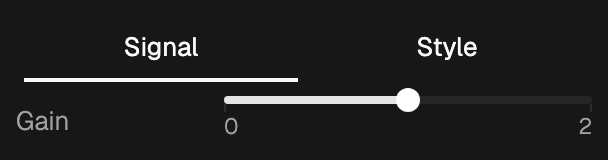
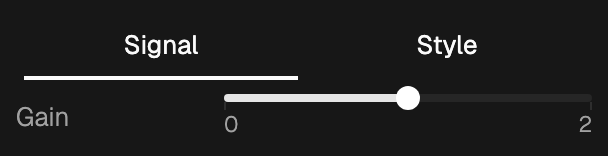
Let a wrapped tab strip be as tall as its tabs
A strip of panel tabs wraps, so its height is whatever its tabs need, and
the strip says as much. It was not getting it: the stock tabs list sets a
one-line height from the tabs root above it, and that rule outranks a
plain class on the strip, so the strip stayed 32px tall while holding two
lines of tabs. Nothing clips there, so the second line was painted over
whatever the panel had below it -- the tab was unreadable and so was the
row it landed on.

This is the default layout rather than a corner of one. Under
`control_layout="fixed"` a GUI tab group draws its own strip, which
scrolls and never wraps; in the dock the group becomes a dock area and
takes the dock's strip, which is this one. Three tabs with ordinary
labels are enough to wrap it in a panel-width column.

Marked important so the height the strip asks for is the height it gets.

diff --git a/src/leika/client/src/dock/TabGroupFrame.tsx b/src/leika/client/src/dock/TabGroupFrame.tsx
@@ -336,7 +336,13 @@ export function TabGroupFrame({
         ref={stripRef}
         variant="line"
         data-dock-strip={group.id}
-        className="h-auto w-full flex-wrap justify-start"
+        // A strip of panel tabs wraps, so its height is whatever its tabs need
+        // -- and `h-auto` has to be marked important to say so. The stock list
+        // sets a one-line height from the tabs root above it, which outranks a
+        // plain class here: the strip stayed 32px tall while holding two lines
+        // of tabs, and since it does not clip, the second line was painted over
+        // whatever the panel had below it.
+        className="h-auto! w-full flex-wrap justify-start"
         onPointerDown={(event) => {
           if ((event.target as HTMLElement).closest("[data-dock-tab]")) {
             return;

diff --git a/tests/e2e/test_dock.py b/tests/e2e/test_dock.py
@@ -728,3 +728,54 @@ def test_a_keyboard_dismissal_leaves_the_panel_where_focus_is(dock_page: Page) -
     # Once focus leaves too, there is nothing left holding it.
     page.evaluate("() => document.activeElement?.blur()")
     expect(control_panel(page)).to_have_css("background-color", "rgba(0, 0, 0, 0)", timeout=5_000)
+
+
+def test_a_tab_strip_grows_to_hold_the_tabs_that_wrap(
+    leika_server: leika.Server, page: Page, page_errors: list[str]
+) -> None:
+    """A strip of panel tabs wraps, and a wrapped strip is taller than one line.
+
+    The stock tabs list sets a one-line height from the tabs root above it,
+    which outranks a plain class on the strip -- so the strip stayed 32px tall
+    while holding two lines of tabs. It does not clip, so the second line was
+    painted over whatever the panel had below it, and the tab itself could not
+    be read.
+    """
+    del page_errors  # Registers the pageerror listener; asserted on below.
+    leika_server.gui.configure_theme(control_layout="floating", dark_mode=True)
+    tabs = leika_server.gui.add_tab_group()
+    labels = ("Overview dashboard", "Experiment controls", "Detailed diagnostics")
+    for label in labels:
+        with tabs.add_tab(label):
+            leika_server.gui.add_text(None, f"The {label} tab.", editable=False, markdown=True)
+
+    page.goto(leika_server.url)
+    page.wait_for_selector("[data-viewport-workspace]", timeout=15_000)
+    page.wait_for_function(
+        '() => !document.body.innerText.includes("Connecting...")', timeout=15_000
+    )
+    strip = page.locator("[data-dock-strip]").filter(has_text=labels[0]).last
+    expect(strip).to_be_visible(timeout=5_000)
+
+    metrics = strip.evaluate(
+        """(element) => {
+          const tabs = [...element.querySelectorAll('[role=tab]')];
+          const box = element.getBoundingClientRect();
+          return {
+            clientHeight: element.clientHeight,
+            scrollHeight: element.scrollHeight,
+            lines: new Set(tabs.map((tab) => Math.round(tab.getBoundingClientRect().top))).size,
+            below: Math.max(
+              0,
+              ...tabs.map((tab) => tab.getBoundingClientRect().bottom - box.bottom),
+            ),
+          };
+        }"""
+    )
+
+    # These labels are too wide for one line of a panel: the point of the test
+    # is the strip that holds more than one.
+    assert metrics["lines"] > 1, metrics
+    # Nothing is left outside the strip, which would be painted over the panel.
+    assert metrics["below"] <= 1.0, metrics
+    assert metrics["scrollHeight"] - metrics["clientHeight"] <= 1, metrics
